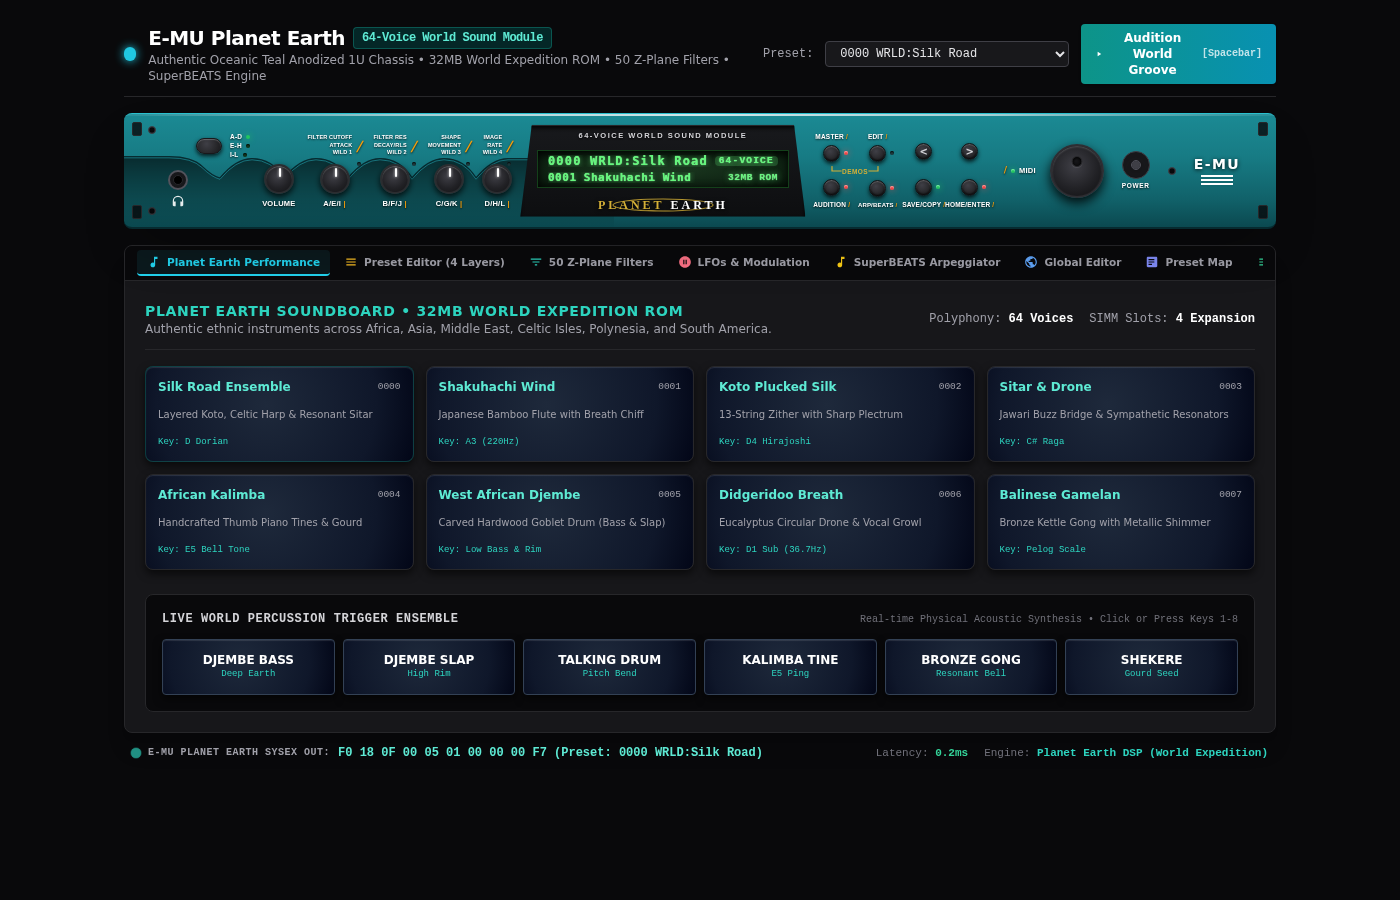
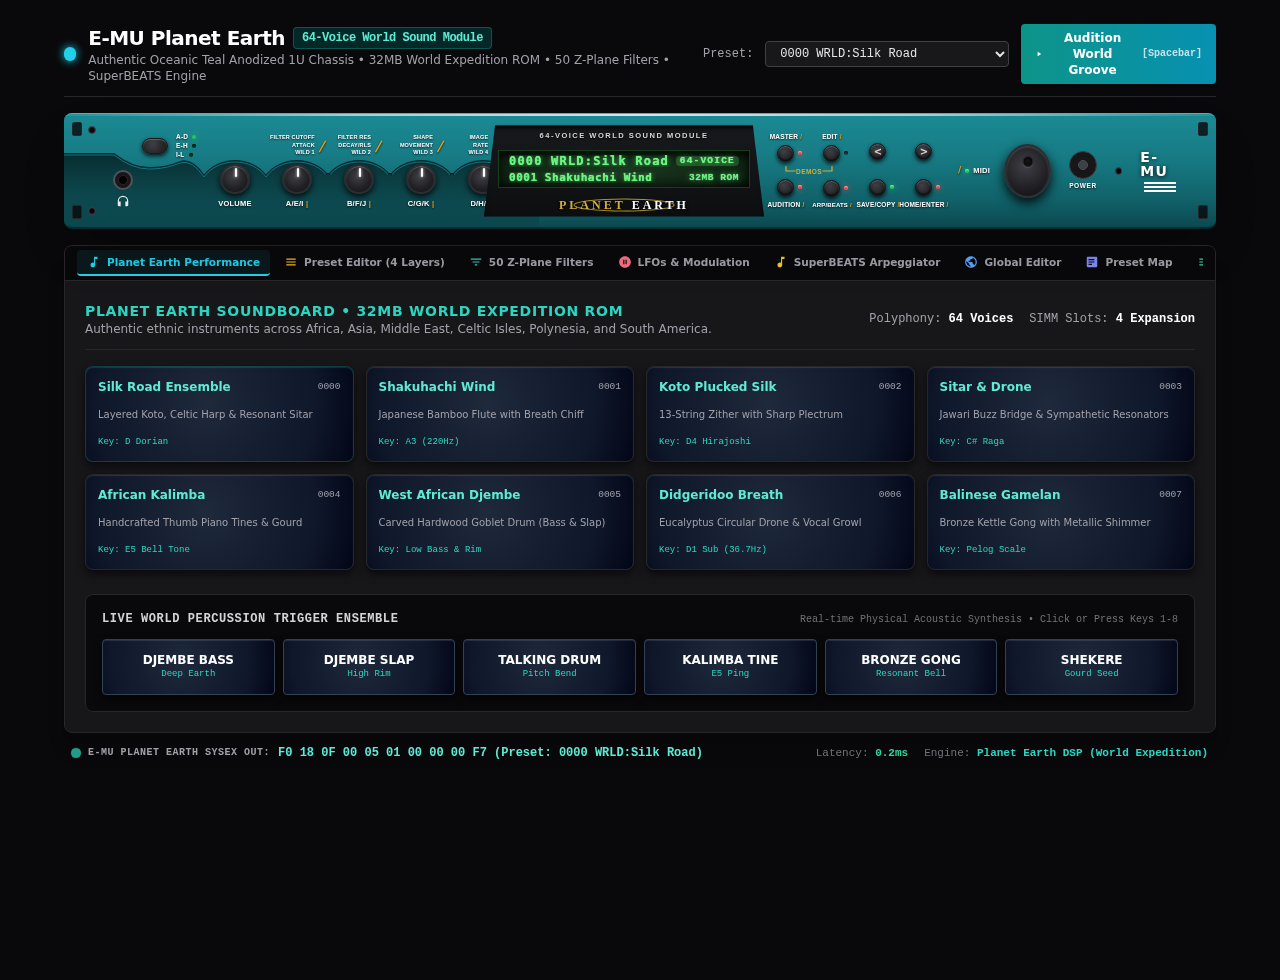
fix(planet-earth): perfectly align all 5 knobs, parameter text, and red LEDs with faceplate contour arches

diff --git a/preview/planet_earth.html b/preview/planet_earth.html
@@ -259,13 +259,13 @@
   </div>
 
   <!-- THE AUTHENTIC 1U OCEANIC TEAL HARDWARE RACK PANEL -->
-  <div class="w-full max-w-6xl pe-faceplate rounded-lg shadow-2xl flex items-center justify-between px-3 py-2.5 h-[116px] relative overflow-hidden">
+  <div class="w-full max-w-6xl pe-faceplate rounded-lg shadow-2xl flex items-center justify-between pr-3 py-2.5 h-[116px] relative overflow-hidden">
     
     <!-- Metallic highlight sheen on top bevel -->
     <div class="metallic-highlight"></div>
 
-    <!-- LEFT SECTION SVG CONTOUR WAVE (Scallops over knobs on the left side) -->
-    <svg class="pe-contour-scallop" viewBox="0 0 490 116" preserveAspectRatio="none">
+    <!-- LEFT SECTION SVG CONTOUR WAVE (Precision Scalloped Arches Centered Over Each Knob) -->
+    <svg class="pe-contour-scallop" style="position: absolute; top: 0; left: 0; width: 475px; height: 116px; pointer-events: none; z-index: 1;" viewBox="0 0 475 116" preserveAspectRatio="none">
       <defs>
         <linearGradient id="scallop-shadow" x1="0" y1="0" x2="0" y2="1">
           <stop offset="0%" stop-color="#000000" stop-opacity="0.65" />
@@ -273,9 +273,9 @@
         </linearGradient>
       </defs>
       <!-- Deep chassis wave swooping under Mode button and arching above all 5 knobs -->
-      <path d="M 0,44 L 45,44 Q 68,44 78,54 T 96,66 Q 112,46 128,46 Q 148,46 160,66 Q 176,46 192,46 Q 212,46 224,66 Q 240,46 256,46 Q 276,46 288,66 Q 304,46 320,46 Q 340,46 352,66 Q 368,46 384,46 L 490,46 L 490,116 L 0,116 Z" fill="url(#scallop-shadow)" />
-      <path d="M 0,44 L 45,44 Q 68,44 78,54 T 96,66 Q 112,46 128,46 Q 148,46 160,66 Q 176,46 192,46 Q 212,46 224,66 Q 240,46 256,46 Q 276,46 288,66 Q 304,46 320,46 Q 340,46 352,66 Q 368,46 384,46 L 490,46" fill="none" stroke="#062b30" stroke-width="1.8" />
-      <path d="M 0,45 L 45,45 Q 68,45 78,55 T 96,67 Q 112,47 128,47 Q 148,47 160,67 Q 176,47 192,47 Q 212,47 224,67 Q 240,47 256,47 Q 276,47 288,67 Q 304,47 320,47 Q 340,47 352,67 Q 368,47 384,47 L 490,47" fill="none" stroke="#2ac0ce" stroke-width="0.8" opacity="0.6" />
+      <path d="M 0,40 L 50,40 Q 68,54 85,54 Q 102,54 116,48 Q 128,44 140,62 C 153.9,42.0 188.1,42.0 202.0,62.0 C 215.9,42.0 250.1,42.0 264.0,62.0 C 277.9,42.0 312.1,42.0 326.0,62.0 C 339.9,42.0 374.1,42.0 388.0,62.0 C 401.9,42.0 436.1,42.0 450.0,62.0 L 475,62 L 475,116 L 0,116 Z" fill="url(#scallop-shadow)" />
+      <path d="M 0,40 L 50,40 Q 68,54 85,54 Q 102,54 116,48 Q 128,44 140,62 C 153.9,42.0 188.1,42.0 202.0,62.0 C 215.9,42.0 250.1,42.0 264.0,62.0 C 277.9,42.0 312.1,42.0 326.0,62.0 C 339.9,42.0 374.1,42.0 388.0,62.0 C 401.9,42.0 436.1,42.0 450.0,62.0 L 475,62" fill="none" stroke="#062b30" stroke-width="1.8" />
+      <path d="M 0,41 L 50,41 Q 68,55 85,55 Q 102,55 116,49 Q 128,45 140,63 C 153.9,43.0 188.1,43.0 202.0,63.0 C 215.9,43.0 250.1,43.0 264.0,63.0 C 277.9,43.0 312.1,43.0 326.0,63.0 C 339.9,43.0 374.1,43.0 388.0,63.0 C 401.9,43.0 436.1,43.0 450.0,63.0 L 475,63" fill="none" stroke="#2ac0ce" stroke-width="0.8" opacity="0.6" />
     </svg>
 
     <!-- LEFT RACK EAR (Black with 2 Oval Mounting Holes) -->
@@ -285,18 +285,18 @@
     </div>
 
     <!-- Countersunk Hex Screws Left -->
-    <div class="absolute left-6 top-3 w-2 h-2 rounded-full bg-zinc-900 border border-zinc-700 shadow-inner flex items-center justify-center">
+    <div class="absolute left-6 top-3 w-2 h-2 rounded-full bg-zinc-900 border border-zinc-700 shadow-inner flex items-center justify-center z-10">
       <div class="w-1 h-1 bg-zinc-950"></div>
     </div>
-    <div class="absolute left-6 bottom-3 w-2 h-2 rounded-full bg-zinc-900 border border-zinc-700 shadow-inner flex items-center justify-center">
+    <div class="absolute left-6 bottom-3 w-2 h-2 rounded-full bg-zinc-900 border border-zinc-700 shadow-inner flex items-center justify-center z-10">
       <div class="w-1 h-1 bg-zinc-950"></div>
     </div>
 
     <!-- LEFT SECTION: PHONES, CONTROLLER SELECT, VOLUME & 4 REAL-TIME PARAMETER KNOBS -->
-    <div class="flex items-center pl-8 z-10">
+    <div class="flex items-center z-10 relative" style="width: 450px; height: 116px;">
       
-      <!-- Headphone Jack (Lower row with 🎧 below) -->
-      <div class="flex flex-col items-center justify-end h-[82px] pb-1 mr-2">
+      <!-- Headphone Jack (Lower row with 🎧 below, x=48 to 70) -->
+      <div class="absolute flex flex-col items-center justify-end pb-1" style="left: 48px; top: 17px; width: 22px; height: 82px;">
         <div class="w-5 h-5 rounded-full bg-zinc-900 border-2 border-zinc-600 shadow-inner flex items-center justify-center">
           <div class="w-2.5 h-2.5 rounded-full bg-black border border-zinc-800"></div>
         </div>
@@ -306,10 +306,10 @@
         </svg>
       </div>
 
-      <!-- Mode Controller Cluster: Oval Button + Centered A-D / E-H / I-L Indicators -->
-      <div class="flex flex-col justify-start h-[82px] mr-2.5 pt-1">
+      <!-- Mode Controller Cluster: Oval Button + Centered A-D / E-H / I-L Indicators (x=78 to 136) -->
+      <div class="absolute flex flex-col justify-start pt-1" style="left: 78px; top: 17px; width: 58px; height: 82px;">
         <div class="flex items-center gap-1.5">
-          <!-- Oval Controller Mode Button -->
+          <!-- Oval Controller Mode Button (Center x = 78 + 13 = 91) -->
           <button onclick="cyclePEMode()" class="pe-btn-oval shrink-0" title="Cycle Real-Time Controller Row (A-D / E-H / I-L)"></button>
           
           <!-- Mode LEDs Vertically Centered with the Oval Button -->
@@ -330,21 +330,21 @@
         </div>
       </div>
 
-      <!-- ALL 5 KNOBS ALIGNED ON EXACT IDENTICAL CENTERLINE (h-[82px]) -->
-      <div class="flex items-center gap-3 ml-0.5">
+      <!-- ALL 5 KNOBS IN 5 EQUIDISTANT 62px COLUMNS (x=140 to 450, Centers: 171, 233, 295, 357, 419) -->
+      <div class="absolute flex items-center" style="left: 140px; top: 17px; width: 310px; height: 82px;">
         
-        <!-- Knob 0: VOLUME -->
-        <div class="flex flex-col items-center justify-between h-[82px] py-0.5">
+        <!-- Knob 0: VOLUME (Center x = 171) -->
+        <div class="flex flex-col items-center justify-between h-[82px] py-0.5 shrink-0" style="width: 62px;">
           <div class="h-[28px] w-full flex items-center justify-center"></div>
           <div class="pe-knob" data-param="vol" data-val="110" onmousedown="startKnobDrag(event, 'vol')">
             <div class="pe-knob-pointer" id="vol-pointer"></div>
           </div>
-          <span class="silkscreen-pe text-[7.5px]">VOLUME</span>
+          <span class="silkscreen-pe text-[7.5px] text-center w-full">VOLUME</span>
         </div>
 
-        <!-- Knob 1: A/E/I (FILTER CUTOFF / ATTACK / WILD 1 with Tall Gold Slash) -->
-        <div class="flex flex-col items-center justify-between h-[82px] py-0.5">
-          <div class="h-[28px] flex items-center justify-center relative">
+        <!-- Knob 1: A/E/I (FILTER CUTOFF / ATTACK / WILD 1 with Gold Slash, Center x = 233) -->
+        <div class="flex flex-col items-center justify-between h-[82px] py-0.5 shrink-0" style="width: 62px;">
+          <div class="h-[28px] w-full flex items-center justify-center">
             <div class="flex items-center gap-0.5">
               <div class="flex flex-col items-end text-right">
                 <span class="silkscreen-pe text-[5.5px] leading-[7.5px]">FILTER CUTOFF</span>
@@ -353,17 +353,16 @@
               </div>
               <span class="slash-gold font-black text-sm italic leading-none pl-0.5 select-none">/</span>
             </div>
-            <div id="led-param-1" class="led-dot led-off absolute -bottom-1.5 right-0"></div>
           </div>
           <div class="pe-knob" data-param="k1" data-val="90" onmousedown="startKnobDrag(event, 'k1')">
             <div class="pe-knob-pointer" id="k1-pointer"></div>
           </div>
-          <span class="silkscreen-pe text-[7.5px]">A/E/I <span class="slash-gold">|</span></span>
+          <span class="silkscreen-pe text-[7.5px] text-center w-full">A/E/I <span class="slash-gold">|</span></span>
         </div>
 
-        <!-- Knob 2: B/F/J (FILTER RES / DECAY/RLS / WILD 2 with Tall Gold Slash) -->
-        <div class="flex flex-col items-center justify-between h-[82px] py-0.5">
-          <div class="h-[28px] flex items-center justify-center relative">
+        <!-- Knob 2: B/F/J (FILTER RES / DECAY/RLS / WILD 2 with Gold Slash, Center x = 295) -->
+        <div class="flex flex-col items-center justify-between h-[82px] py-0.5 shrink-0" style="width: 62px;">
+          <div class="h-[28px] w-full flex items-center justify-center">
             <div class="flex items-center gap-0.5">
               <div class="flex flex-col items-end text-right">
                 <span class="silkscreen-pe text-[5.5px] leading-[7.5px]">FILTER RES</span>
@@ -372,17 +371,16 @@
               </div>
               <span class="slash-gold font-black text-sm italic leading-none pl-0.5 select-none">/</span>
             </div>
-            <div id="led-param-2" class="led-dot led-off absolute -bottom-1.5 right-0"></div>
           </div>
           <div class="pe-knob" data-param="k2" data-val="64" onmousedown="startKnobDrag(event, 'k2')">
             <div class="pe-knob-pointer" id="k2-pointer"></div>
           </div>
-          <span class="silkscreen-pe text-[7.5px]">B/F/J <span class="slash-gold">|</span></span>
+          <span class="silkscreen-pe text-[7.5px] text-center w-full">B/F/J <span class="slash-gold">|</span></span>
         </div>
 
-        <!-- Knob 3: C/G/K (SHAPE / MOVEMENT / WILD 3 with Tall Gold Slash) -->
-        <div class="flex flex-col items-center justify-between h-[82px] py-0.5">
-          <div class="h-[28px] flex items-center justify-center relative">
+        <!-- Knob 3: C/G/K (SHAPE / MOVEMENT / WILD 3 with Gold Slash, Center x = 357) -->
+        <div class="flex flex-col items-center justify-between h-[82px] py-0.5 shrink-0" style="width: 62px;">
+          <div class="h-[28px] w-full flex items-center justify-center">
             <div class="flex items-center gap-0.5">
               <div class="flex flex-col items-end text-right">
                 <span class="silkscreen-pe text-[5.5px] leading-[7.5px]">SHAPE</span>
@@ -391,17 +389,16 @@
               </div>
               <span class="slash-gold font-black text-sm italic leading-none pl-0.5 select-none">/</span>
             </div>
-            <div id="led-param-3" class="led-dot led-off absolute -bottom-1.5 right-0"></div>
           </div>
           <div class="pe-knob" data-param="k3" data-val="75" onmousedown="startKnobDrag(event, 'k3')">
             <div class="pe-knob-pointer" id="k3-pointer"></div>
           </div>
-          <span class="silkscreen-pe text-[7.5px]">C/G/K <span class="slash-gold">|</span></span>
+          <span class="silkscreen-pe text-[7.5px] text-center w-full">C/G/K <span class="slash-gold">|</span></span>
         </div>
 
-        <!-- Knob 4: D/H/L (IMAGE / RATE / WILD 4 with Tall Gold Slash) -->
-        <div class="flex flex-col items-center justify-between h-[82px] py-0.5">
-          <div class="h-[28px] flex items-center justify-center relative">
+        <!-- Knob 4: D/H/L (IMAGE / RATE / WILD 4 with Gold Slash, Center x = 419) -->
+        <div class="flex flex-col items-center justify-between h-[82px] py-0.5 shrink-0" style="width: 62px;">
+          <div class="h-[28px] w-full flex items-center justify-center">
             <div class="flex items-center gap-0.5">
               <div class="flex flex-col items-end text-right">
                 <span class="silkscreen-pe text-[5.5px] leading-[7.5px]">IMAGE</span>
@@ -410,15 +407,20 @@
               </div>
               <span class="slash-gold font-black text-sm italic leading-none pl-0.5 select-none">/</span>
             </div>
-            <div id="led-param-4" class="led-dot led-off absolute -bottom-1.5 right-0"></div>
           </div>
           <div class="pe-knob" data-param="k4" data-val="55" onmousedown="startKnobDrag(event, 'k4')">
             <div class="pe-knob-pointer" id="k4-pointer"></div>
           </div>
-          <span class="silkscreen-pe text-[7.5px]">D/H/L <span class="slash-gold">|</span></span>
+          <span class="silkscreen-pe text-[7.5px] text-center w-full">D/H/L <span class="slash-gold">|</span></span>
         </div>
 
       </div>
+
+      <!-- 4 Real-Time Parameter Red LEDs Sitting Exactly in the Wave Valleys -->
+      <div id="led-param-1" class="led-dot led-off absolute" style="left: 264px; top: 62px; transform: translate(-50%, -50%); z-index: 15;"></div>
+      <div id="led-param-2" class="led-dot led-off absolute" style="left: 326px; top: 62px; transform: translate(-50%, -50%); z-index: 15;"></div>
+      <div id="led-param-3" class="led-dot led-off absolute" style="left: 388px; top: 62px; transform: translate(-50%, -50%); z-index: 15;"></div>
+      <div id="led-param-4" class="led-dot led-off absolute" style="left: 450px; top: 62px; transform: translate(-50%, -50%); z-index: 15;"></div>
 
     </div>
 
